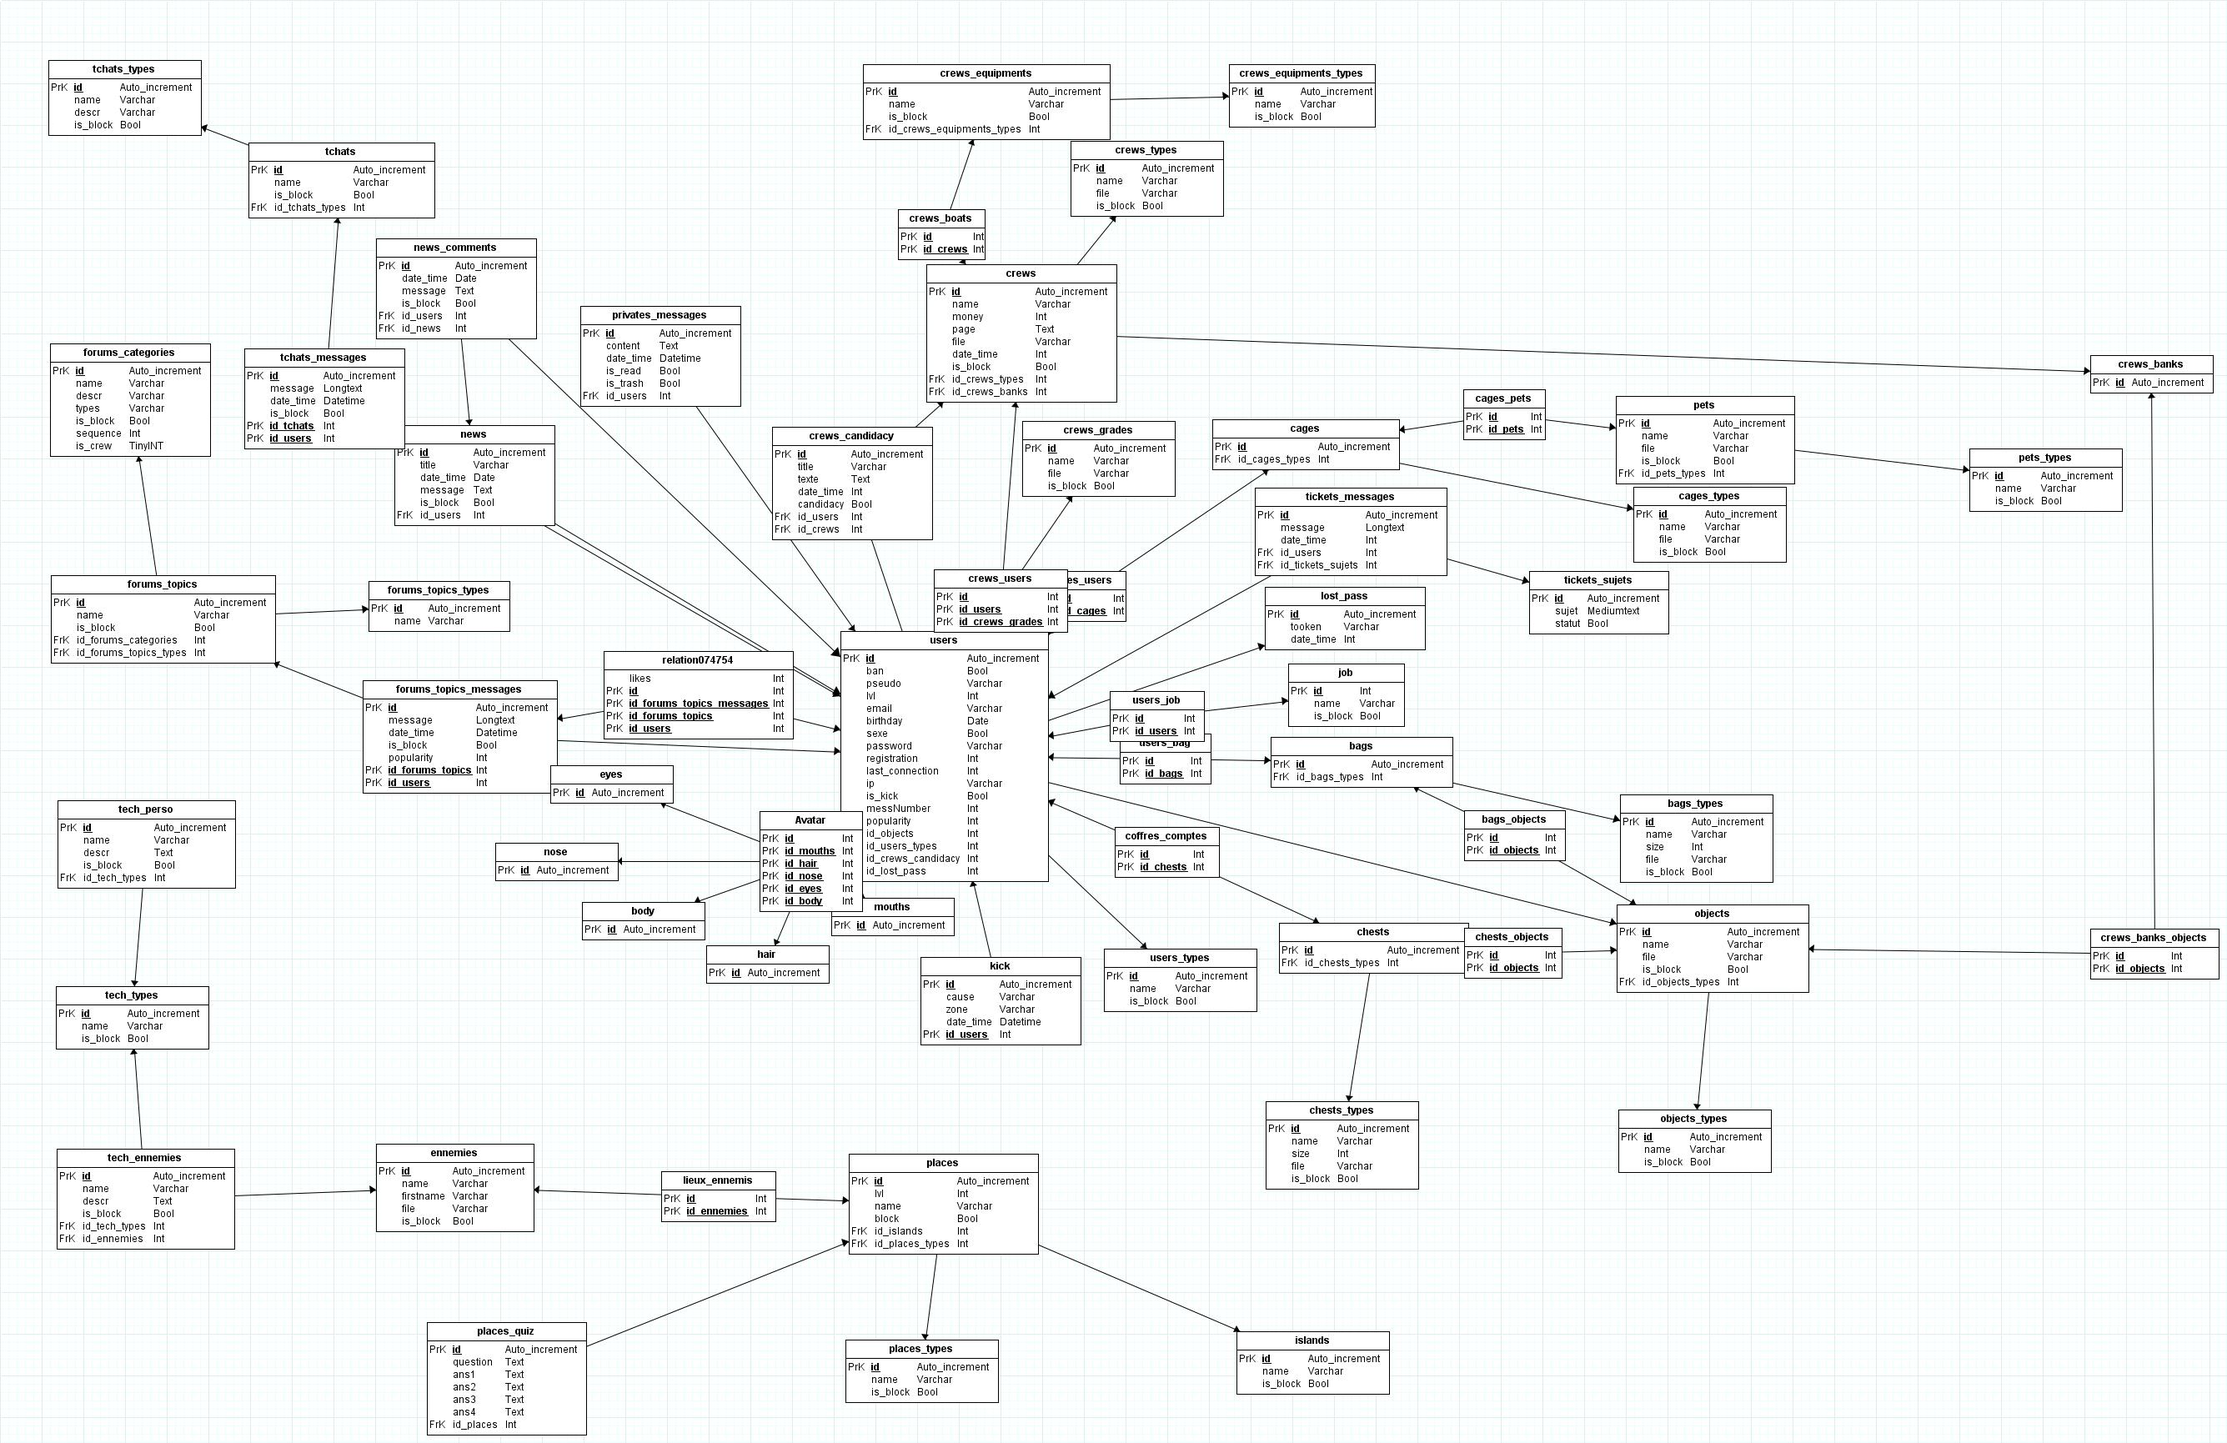
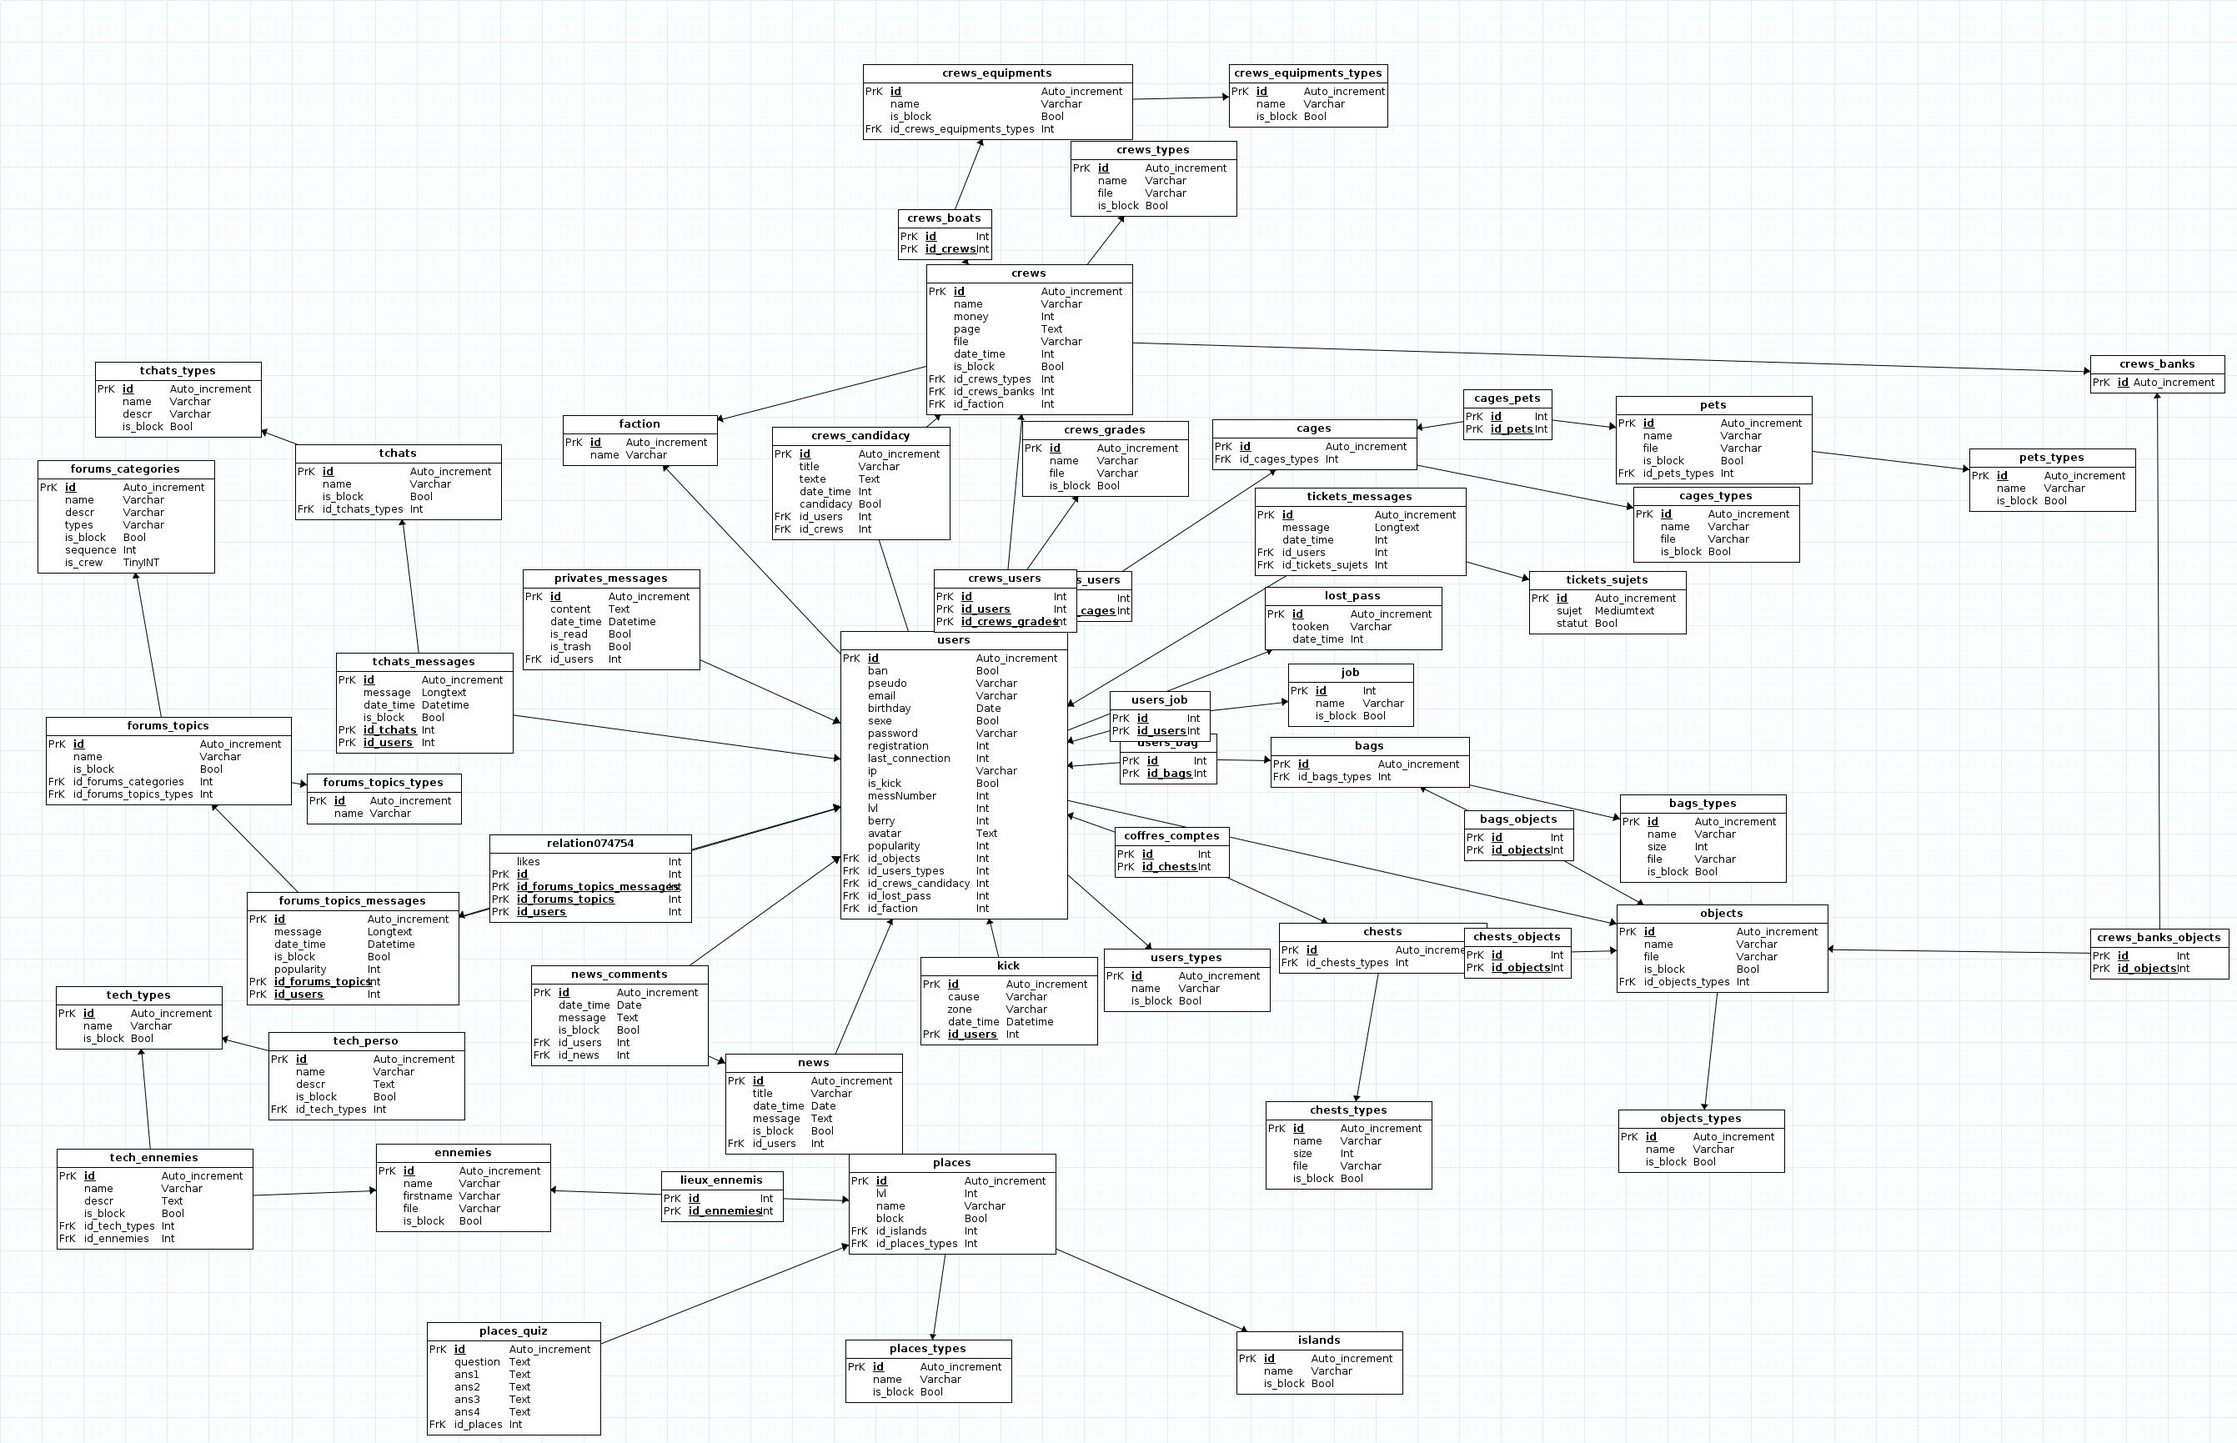
Ajout des Factions (Pirate, marine, revolutionnaire)

diff --git a/assets/js/users/create.js b/assets/js/users/create.js
@@ -1,0 +1,9 @@
+function afficher(id) {
+     var div = document.getElementById(id);
+     document.getElementById('descPirate').style.display = "none";
+      document.getElementById('descMarine').style.display = "none";
+      document.getElementById('descRevolu').style.display = "none";
+      document.getElementById('descAlea').style.display = "none";
+   div.style.display = "block";
+
+}

diff --git a/application/views/users/create.php b/application/views/users/create.php
@@ -73,6 +73,46 @@
         ?>
       </div>
     </div>
+    
+    
+     <!-- :::::::::: FACTION :::::::::: -->
+    
+    <div class="row collapse">
+      <div class="small-9 large-9 columns">
+        <?php echo form_error('faction'); ?>
+        <ul class="button-group radius toggle" data-toggle="buttons-radio">
+          <li>
+            <input type="radio" id="factionAleatoire" value="aleatoire" name="faction" data-toggle="button" onclick="afficher('descAlea')" checked>
+            <label class="button small secondary" for="factionAleatoire">Aléatoire</label>
+          </li>
+          <li>
+            <input type="radio" id="factionPirate" value="1" name="faction" data-toggle="button" onclick="afficher('descPirate')">
+            <label class="button small secondary" for="factionPirate">Pirate</label>
+          </li>
+          <li>
+            <input type="radio" id="factionMarine" value="2" name="faction" data-toggle="button" onclick="afficher('descMarine')">
+            <label class="button small secondary" for="factionMarine">Marine</label>
+          </li>
+          <li>
+            <input type="radio" id="factionRévolutionnaire" value="3" name="faction" data-toggle="button" onclick="afficher('descRevolu')">
+            <label class="button small secondary" for="factionRévolutionnaire">Révolutionnaire</label>
+          </li>
+        </ul>
+      </div>
+    </div> <br> <!-- /<div class="row collapse"> FACTION -->
+    
+    <div id="descAlea" style="display:block">Laissez le destin décider pour vous et gagner 1 000 berry en plus !</div>
+    <div id="descPirate" style="display:none">Suivez les traces du célèbre Monkey.D.Luffy et devenez un pirate.
+    Commettre des délits, chercher des trésors,  échapper à la marine ainsi qu'au gouvernement mondial et naviguer en mer sera votre quotidien.
+    Une forte dose d'aventure vous attends !</div>
+    <div id="descMarine" style="display:none;">Incarnez un fort et courageux marine afin de stopper ses horribles pirates qui s'en prennent à des gens innocents.
+    Défendre la population et éradiquer les pirates sera votre priorité.
+    Honneur, courage et loyauté vous seront alors indispensables dans votre quête.</div>
+    <div id="descRevolu" style="display:none">Incarnez un révolutionnaire et rétablissez la vraie justice.
+    Comme le célèbre Monkey.D.Dragon, chef des révolutionnaires, votre but sera de faire tomber le gouvernement mondial.
+    Pour cela, il va vous falloir agir en secret, la prudence et la discrétion vous sera indispensable afin de changer le monde !</div>
+    <br>
+    
 
     <!-- :::::::::: CHARACTER INFORMATIONS :::::::::: -->
 

diff --git a/application/models/Users_model.php b/application/models/Users_model.php
@@ -40,12 +40,13 @@ class Users_model extends CI_Model {
   public function view_user($id = 0) {
         //Selection of all useful information to display on the member's profile
     $query = $this->db->query("SELECT users.pseudo, users.messNumber, users_types.name AS rank, lvl,
-    							crews.name AS crewName, crews_grades.name AS crewGrade, crews.id AS crewId, registration, last_connection
+    							crews.name AS crewName, crews_grades.name AS crewGrade, crews.id AS crewId, registration, last_connection, faction.name AS facName
                                 FROM users
                                 JOIN users_types ON users_types.id = users.id_users_types
     							LEFT JOIN crews_users ON crews_users.id_users = users.id
     							LEFT JOIN crews ON crews.id = crews_users.id
     							LEFT JOIN crews_grades ON crews_grades.id = crews_users.id_crews_grades
+								JOIN faction ON users.id_faction = faction.id
                                 WHERE users.id = ?", array($id));
     //Returns array with member information
     return $query->row_array();
@@ -79,15 +80,26 @@ class Users_model extends CI_Model {
     	return 0;
     if($nbEmail > 0)
     	return -1;
+	  
+	$berry = 100;
+	$faction = $this->input->post('faction');
+	if($this->input->post('faction') == "aleatoire") {
+	  $berry += 1000;
+	  //marine
+	  $faction = 2;
+	}
+	
     $password_hash = password_hash($this->input->post('password'), PASSWORD_BCRYPT);
     $data = array(
         'pseudo' => $this->input->post('pseudo'),
-        'lvl' => 1,
         'password' => $password_hash,
         'registration' => time(),
         'email' => $this->input->post('email'),
+		'lvl' => 1,
+		'berry' => $berry,
         'id_objects' => 1,
         'id_users_types' => 1,
+		'id_faction' => $faction
     );
      $this->db->insert('users', $data);
 	 return $this->db->insert_id();
@@ -152,7 +164,7 @@ class Users_model extends CI_Model {
   
   public function setup_connexion($pseudo) {
       $query = $this->db->query("SELECT users.id, ban, pseudo, email, birthday, sexe, is_kick,
-							  lvl, id_objects, id_users_types, users_types.name AS rank
+							  lvl, id_objects, id_users_types, users_types.name AS rank, id_faction AS faction
 							  FROM users
 							  JOIN users_types ON users_types.id = id_users_types
 							  WHERE pseudo = ?", array($pseudo));
@@ -234,6 +246,9 @@ class Users_model extends CI_Model {
 	$mouth = $this->input->post('mouth');
 	$couleur = $this->input->post('couleur');
 	$pseudo = $this->input->post('pseudo');
+	
+	if($couleur == "0")
+	  $couleur = "noir";
 	
 	if($sexe=='Homme') {
 	  $urlBody = 'assets/img/avatars/man/body/' . $body . '.png';

diff --git a/application/models/Crews_model.php b/application/models/Crews_model.php
@@ -32,7 +32,8 @@ class Crews_model extends CI_Model {
 		    'money' => 0,
 		    'date_time' => time(),
 		    'id_crews_types' => 1,
-		    'id_crews_banks' => $this->db->insert_id()
+		    'id_crews_banks' => $this->db->insert_id(),
+			'id_faction' => $this->user->getFaction()
 		);	
 		$this->db->insert('crews', $data);
 		
@@ -73,13 +74,15 @@ class Crews_model extends CI_Model {
 }
 
 	public function changeCrew($idCrew) {
-		$this->db->where('id_users', $this->user->getId());
-		$this->db->update('crews_users', array('id' => $idCrew));
+		$this->db->where('id_users', $this->user->getId())
+				->where('id_faction', $this->user->getFaction())
+				->update('crews_users', array('id' => $idCrew));
 	}
 
 	public function countCrews(){
 		return (int) $this->db
 			->where('is_block', 0)
+			->where('id_faction', $this->user->getFaction())
 			->count_all_results('crews');
 	}
 
@@ -87,10 +90,10 @@ class Crews_model extends CI_Model {
 		$query = $this->db->query('SELECT id, name, money,
 					page, date_time AS dateCrew
 					FROM crews
-					WHERE is_block = 0
+					WHERE is_block = 0 AND id_faction = ?
 					ORDER BY id
 					LIMIT '.$begin.', '.$nb.'
-					');
+					', array($this->user->getFaction()));
 		return $query->result_array();
 	}
 	
@@ -196,6 +199,7 @@ class Crews_model extends CI_Model {
 		$this->db->from('crews');
 		$this->db->like('name', $this->input->post('crewName'));
 		$this->db->where('is_block', 0);
+		$this->db->where('id_faction', $this->user->getFaction());
 		$query = $this->db->get();
 		return $query->result_array();
 	}
@@ -265,6 +269,14 @@ class Crews_model extends CI_Model {
 		$this->db->where('id', $idCrew);
 		$this->db->set('is_block', 1);
 		$this->db->update('crews');	
+	}
+	
+	public function inFaction($id) {
+		$nb = $this->db->where('id', $id)
+    					  ->where('id_faction', $this->user->getFaction())
+						  ->where('is_block', 0)
+            ->count_all_results('crews');
+		return($nb == 0) ? true : false;
 	}
 	
 }

diff --git a/application/controllers/Users.php b/application/controllers/Users.php
@@ -109,6 +109,8 @@ class Users extends MY_Controller {
 	$this->form_validation->set_rules('passconf', 'Mot de passe de confirmation', 'required');
 	$this->form_validation->set_rules('email', 'Email', 'required|min_length[3]|max_length[249]|valid_email');
 	$this->form_validation->set_rules('sexe', 'sexe', 'required');
+	$this->form_validation->set_rules('faction', 'faction', 'required');
+	
 
   $url = 'assets/img/avatars';
   $urlManHair = $url.'/man/hair';
@@ -149,16 +151,28 @@ class Users extends MY_Controller {
 	
 	if ($this->form_validation->run() === FALSE) {	  
 	     $data['scripts'][] = base_url('assets/js/users/create_avatar.js');
+		 $data['scripts'][] = base_url('assets/js/users/create.js');
        $this->construct_page('users/create', $data);
     }
+	else if($body = $this->input->post('body') == "0" ||
+			$body = $this->input->post('hair') == "0" ||
+			$body = $this->input->post('eyes') == "0" ||
+			$body = $this->input->post('mouth') == "0") {
+	  $data['error'] = "Vous devez choisir votre avatar";
+	  $data['scripts'][] = base_url('assets/js/users/create_avatar.js');
+	  $data['scripts'][] = base_url('assets/js/users/create.js');
+       $this->construct_page('users/create', $data);
+	}
     else {
       $id = $this->users_model->set_user();
       if($id == 0) {
           $data['scripts'][] = base_url('assets/js/users/create_avatar.js');
+		  $data['scripts'][] = base_url('assets/js/users/create.js');
           $data['error'] = "Pseudo déjà utilisé !";
           $this->construct_page('users/create', $data);
       } else if($id == -1) {
           $data['scripts'][] = base_url('assets/js/users/create_avatar.js');
+		  $data['scripts'][] = base_url('assets/js/users/create.js');
           $data['error'] = "Email déjà utilisé !";
           $this->construct_page('users/create', $data);
       }

diff --git a/application/views/pages/accueil.php b/application/views/pages/accueil.php
@@ -1,12 +1,16 @@
 <div class="row pageNormale">
 
     <!-- ========== TITLE ========== -->
-    <h1>Information</h2>
+    <h1>Bienvenue sur le site Minegame (nom provisoire) !</h2><br>
 
     <!-- ========== CONTENT ========== -->
-    <p>Le jeu onepiece-rpg est un jeu gratuit, créer par des fans pour des fans, etc...<br />
-    BLABLABLA<br/> <br />
-    bla blabla <br />
-    </p>
+   
+    Ce site est la suite de One Piece RPG, un jeu basé sur la manga One Piece. <br>
+    <strong>Vous êtes en quête d'aventure ?</strong><br>
+    Alors rejoignez-nous sans plus tarder. Incarnez un pirate, un marine ou un révolutionnaire et partez à l'aventure.<br>
+    Explorez des îles plus merveilleuses les unes que les autres, rencontrez des monstres et combattez de puissants ennemis afin de devenir toujours plus fort.
+    Pour atteindre votre but, inscrivez-vous sans plus tarder et devenez une légende ! L'aventure vous attends !
+    <br><br>
+    <i>Jeu en bêta test ouverte.</i>
     
 </div>

diff --git a/application/controllers/Crews.php b/application/controllers/Crews.php
@@ -50,7 +50,7 @@ class Crews extends MY_Controller {
 		$data['title'] = 'Création de votre équipage';
 		$this->load->library('form_validation');
 		$this->load->helper('form');
-		$this->form_validation->set_rules('crewName', 'Nom équipage', 'required|min_length[3]|max_length[15]|is_unique[crews.name]');
+		$this->form_validation->set_rules('crewName', 'Nom équipage', 'required|min_length[3]|max_length[50]|is_unique[crews.name]');
 		  if ($this->form_validation->run() === FALSE) {
 			$this->construct_page('crews/create', $data);
 		}
@@ -110,7 +110,7 @@ class Crews extends MY_Controller {
 	}
 	
 	public function candidacy($id=0) {
-		if($id == 0 || $this->crew->inCrew() || $this->crews_model->pendingRequest($id))
+		if($id == 0 || $this->crew->inCrew() || $this->crews_model->inFaction($id) || $this->crews_model->pendingRequest($id))
 			redirect(base_url('/crews/index'));
 		$data['title'] = 'Candidature équipage';
 		$data['id'] = $id;

diff --git a/application/libraries/User.php b/application/libraries/User.php
@@ -106,6 +106,11 @@ class User
 		return $this->CI->session->userdata('id');
 	}
 	
+	public function getFaction()
+	{
+		return $this->CI->session->userdata('faction');
+	}
+	
 	
 	// Setters
 	public function setAttribute($attr, $value)
@@ -149,26 +154,5 @@ class User
 	public function setUserId($userId)
 	{
 		$this->CI->session->set_userdata('userId', $userId);
-	}
-	
-	public function getColor($id)
-	{
-		if((int)$id)
-		{
-			if($id == 1)
-				return "#AFAFAF";
-			if($id == 2 || $id == 7)
-				return "#1BFFC7";
-			if($id == 3 || $id == 8)
-				return "#1B2AFF";
-			if($id == 4 || $id == 9)
-				return "#1BFF1F";
-			if($id == 5 || $id == 10)
-				return "#FF911B";
-			if($id == 6 || $id == 11)
-				return "#D20000";			
-		}
-	}
-
-	 
+	}	 
 }

diff --git a/application/models/Forum_model.php b/application/models/Forum_model.php
@@ -74,10 +74,11 @@ class Forum_model extends CI_Model {
 				u.messNumber AS messNumber,
 				users_types.name AS ranks, u.id_users_types AS ranksId, f.message AS message, 
 				f.date_time AS date,
-				f.id AS id')
+				f.id AS id, faction.name AS facName')
 			->from('forums_topics_messages f')
 			->join('users u', 'f.id_users = u.id')
 			->join('users_types', 'u.id_users_types = users_types.id')
+			->join('faction', 'u.id_faction = faction.id')
 			->where('f.id_forums_topics', $id_topic)
 			->where('f.is_block', 0)
 			->limit($nb, $begin)

diff --git a/application/views/account/infoPrivate.php b/application/views/account/infoPrivate.php
@@ -3,8 +3,4 @@
     Pseudo : <?php echo $user['pseudo']; ?> <br />
     Mot de passe : *********  <a href="<?php echo base_url('/account/setPassword') ?>">Modifier</a><br />
     Mail : <?php echo $user['email']; ?> <a href="<?php echo base_url('/account/setEmail') ?>">Modifier</a> <br />
-    Dashboard : <br />
-        - Premier lien :  Forum <a href="">Modifier</a><br />
-        - Deuxième lien :  Combat <a href="">Modifier</a><br />
-        - Troisième lien :  Tchat <a href="">Modifier</a><br />
 </div>

diff --git a/application/views/forum/topics.php b/application/views/forum/topics.php
@@ -25,6 +25,7 @@
 										<img src="<?php echo base_url('assets/img/avatarsJoueurs/'.$message->userId.'.png');?>"></img><br>										
 										<a href="<?php echo base_url('users/view/'.$message->userId);?>" class="<?= $message->ranks; ?>"><?php echo $message->pseudo; ?></a><br>
 										<strong><i><?php echo $message->ranks;?></i></strong><br />
+										<?= $message->facName; ?><br>
 										<i><?php echo $message->messNumber; ?> messages</i>
 								
 								</div>

diff --git a/application/views/users/view.php b/application/views/users/view.php
@@ -2,6 +2,7 @@
     <br />
     <img src="<?php echo base_url('assets/img/avatarsJoueurs/'.$id.'.png');?>"></img><br>	<br />
     Pseudo : <a href="#" class="<?= $users['rank']?>"><?php echo $users['pseudo']; ?></a> <br />
+    Faction : <?= $users['facName']; ?><br>
     Lvl : <?php echo $users['lvl'];?> <br />
     Rang : <?php echo $users['rank']; ?> <br />
     Nombre message forum : <?php echo $users['messNumber']; ?> <br />
